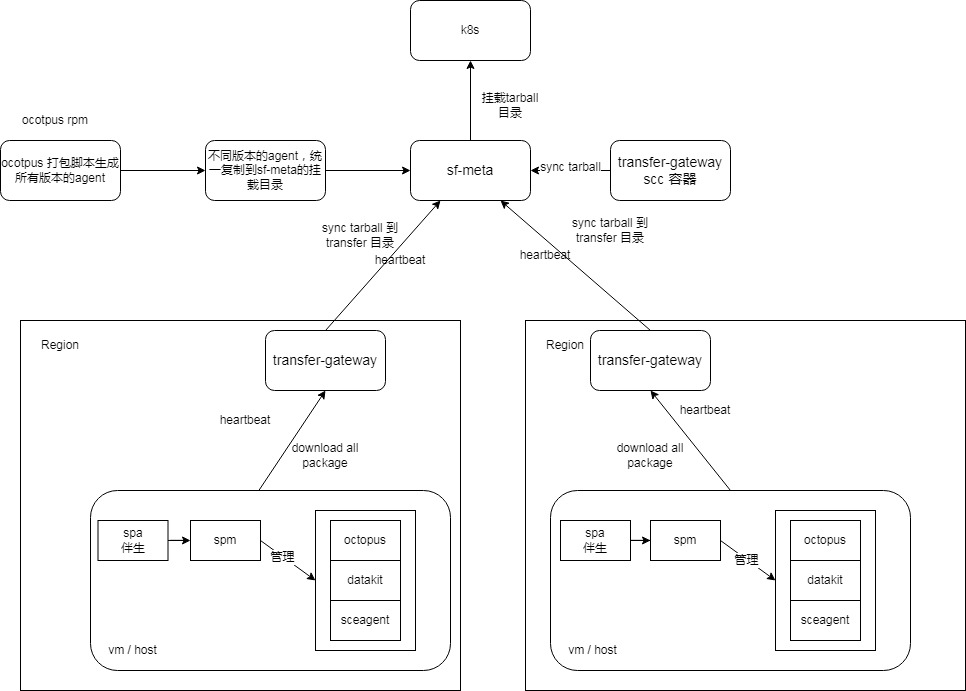
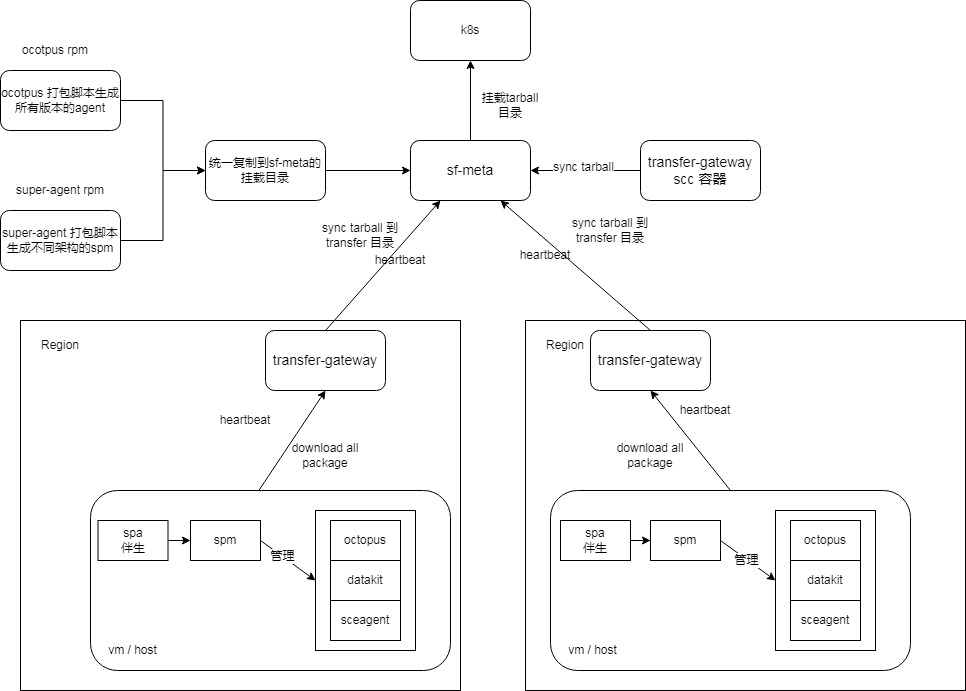
[ADD] agent

diff --git a/笔记/专业知识/tmp/准备/agent.md b/笔记/专业知识/tmp/准备/agent.md
@@ -14,6 +14,11 @@
 - SPA (Super Agent): 超级代理，负责监控SPM进程并在异常时重启
 - aops-agent-service: 服务管理程序，负责整个系统的安装、卸载、启动、停止等操作
 
+#### 外部组件
+
+- sf-meta：接收aops-spm上报的心跳信息，并且将最新版本的aops-spm版本号以及各类agent版本号返回给aops-spm； 并且提供aops-spm和各类agent的安装包下载功能；
+- transfer-gateway：转发代理，负责同步sf-meta上的安装包，并对外提供包下载服务能力；每个数据中心都会部署一个独立的转发代理服务，承接分流下载、心跳上报等功能；
+
 项目架构特点：
 
 1. 双进程设计：spm(管理核心) + spa(监控和拉起)
@@ -27,13 +32,9 @@
 项目目录结构及功能分析：
 
 1. 根目录文件：
-   - README.md: 项目说明文档
    - Makefile: docker 构建脚本
    - go.mod/go.sum: Go模块依赖管理
-   - .gitignore: Git忽略规则
-   - LICENSE: 许可证文件
-   - .travis.yml: CI/CD配置
-- control：linux控制脚本
+   - control：linux控制脚本
      - 启动、停止 spm
 2. config/:
    - config.go: 配置管理模块，定义配置结构体和解析逻辑
@@ -189,6 +190,12 @@ Windows平台
 
 SPA 是 SPM 的伴生进程，两者相互监督，检测到异常就相互拉起
 
+1、windows watch 为什么只允许spm杀死spa，而允许 spa 杀死 spm？
+
+- 升级时，是由spm的心跳去拉取新版本的安装包，并解压，然后自动退出spm程序，等待spa拉起；spm启动后，会杀掉spa，升级场景下需要重启spa、替换exe文件。如果双方都能相互杀死、拉起，则会出现死循环的情况；
+
+2、值得注意的是，spa的拉起逻辑（如何替换备份文件等）是在spm的watch中实现的；而spm的拉起逻辑，则是由control.py这个脚本实现的；两边的逻辑都是类似；不过貌似统一放在control.py中也是可以的
+
 ![spm和spa watch 机制](agent.assets/spm和spa watch 机制.jpg)
 
 ### 升级场景
@@ -314,20 +321,20 @@ rpm build xxx   # 执行完整的多架构打包
 
 #### 手动安装
 
-托管云 agent 的手动安装命令可以拆分为两部分：
+托管云 agent 的手动安装命令可以拆分为两部分
 
 ```bash
-curl -kf4 -m 30 -X GET https://10.134.88.95:8888/api/download/aops-agent-service-linux-amd64 -H 'x-agent-id: 5402204854438' -o aops-agent-service-linux-amd64
+curl -kf4 -m 30 -X GET https://{{transfer-gateway-endpoint}}:8888/api/download/aops-agent-service-linux-amd64 -H 'x-agent-id: 5402204854438' -o aops-agent-service-linux-amd64
 && chmod +x aops-agent-service-linux-amd64 && ./aops-agent-service-linux-amd64 --control install --version c57f6a1d --agentId 5402204854438 --endpoint https://10.134.88.95:8888
 ```
 
-1、下载“下载器 aops-agent-service-linux-amd64” 
+1、下载 “下载器 aops-agent-service-linux-amd64” 
 
 ```bash
-curl -kf4 -m 30 -X GET https://10.134.88.95:8888/api/download/aops-agent-service-linux-amd64 -H 'x-agent-id: 5402204854438' -o aops-agent-service-linux-amd64
+curl -kf4 -m 30 -X GET https://{{transfer-gateway-endpoint}}:8888/api/download/aops-agent-service-linux-amd64 -H 'x-agent-id: 5402204854438' -o aops-agent-service-linux-amd64
 ```
 
-到 transfer-gateway 下载 super-agent 的可执行文件
+到 transfer-gateway 下载对应 版本-架构 的 super-agent 安装包
 
 2、给下载器执行权限、执行下载器的安装命令
 
@@ -335,9 +342,7 @@ curl -kf4 -m 30 -X GET https://10.134.88.95:8888/api/download/aops-agent-service
 && chmod +x aops-agent-service-linux-amd64 && ./aops-agent-service-linux-amd64 --control install --version c57f6a1d --agentId 5402204854438 --endpoint https://10.134.88.95:8888
 ```
 
-
-
-
+这个安装命令，就是通过调用 aops-agent-service（服务管理程序）来安装agent；
 
 
 

diff --git a/笔记/专业知识/tmp/准备/sf-meta.md b/笔记/专业知识/tmp/准备/sf-meta.md
@@ -1,0 +1,27 @@
+# meta
+
+接收aops-spm上报的心跳信息，并且将最新版本的aops-spm版本号以及各类agent版本号返回给aops-spm；
+并且提供aops-spm和各类agent的安装包下载功能
+
+## 设计理念
+
+- 对于一个公司而言，agent并不多，也就有个监控agent、部署agent、naming agent，所以sf-meta直接采用配置文件而不是数据库之类的大型存储来存放agent信息
+- 公司级别agent升级慢一点没关系，比如一晚上升级完问题都不大，所以aops-spm与sf-meta的通信周期默认是5min，比较长。如果做成长连接，周期调小，是否就可以不光用来部署agent，也可以部署一些业务程序？不要这么做！部署其他业务组件是部署agent的责任，aops-spm做的事情少才不容易出错。aops-spm推荐在装机的时候直接安装好，功能少基本不升级。
+- aops-spm会汇报自己管理的各个agent的状态、版本号，这个信息直接存放在sf-meta模块的内存中，因为数据量真没多少，100w机器，3个agent……
+
+## 使用方法
+1. 修改配置文件：
+ - 上传spm和各类agent的tarball到配置文件中的tarballDir目录,agent包的命名方式为<name>-<version>_<os>_<arch>.tar.gz;
+ - spm中填写aops-spm的版本号，如果不想使用meta作为文件服务器，可以将tarball字段设置为自定义的文件下载服务器，需要确保<tarball>/aops-spm-<version>_<os>_<arch>.tar.gz地址可以正常下载文件
+ - agents中每一个agent占用一个map,name不可以与其他的重复,configFile是agent的配置文件路径;
+
+2. 编译运行
+```shell script
+./control build   # 会生成一个aops-sf-meta的二进制文件
+mv cfg.example.json cfg.json
+./control start # 也可以将sf-meta服务托管给systemctl管理
+```
+
+## 注意
+
+- 虽然sf-meta提供了http服务，可以直接用来提供tarball下载，但是不推荐这样用，最好单独再搭建一个服务（比如nginx，如果觉得麻烦再搭一个sf-meta专门用于下载都可以）专门用于文件下载，这样sf-meta做的事情少，稳定。
